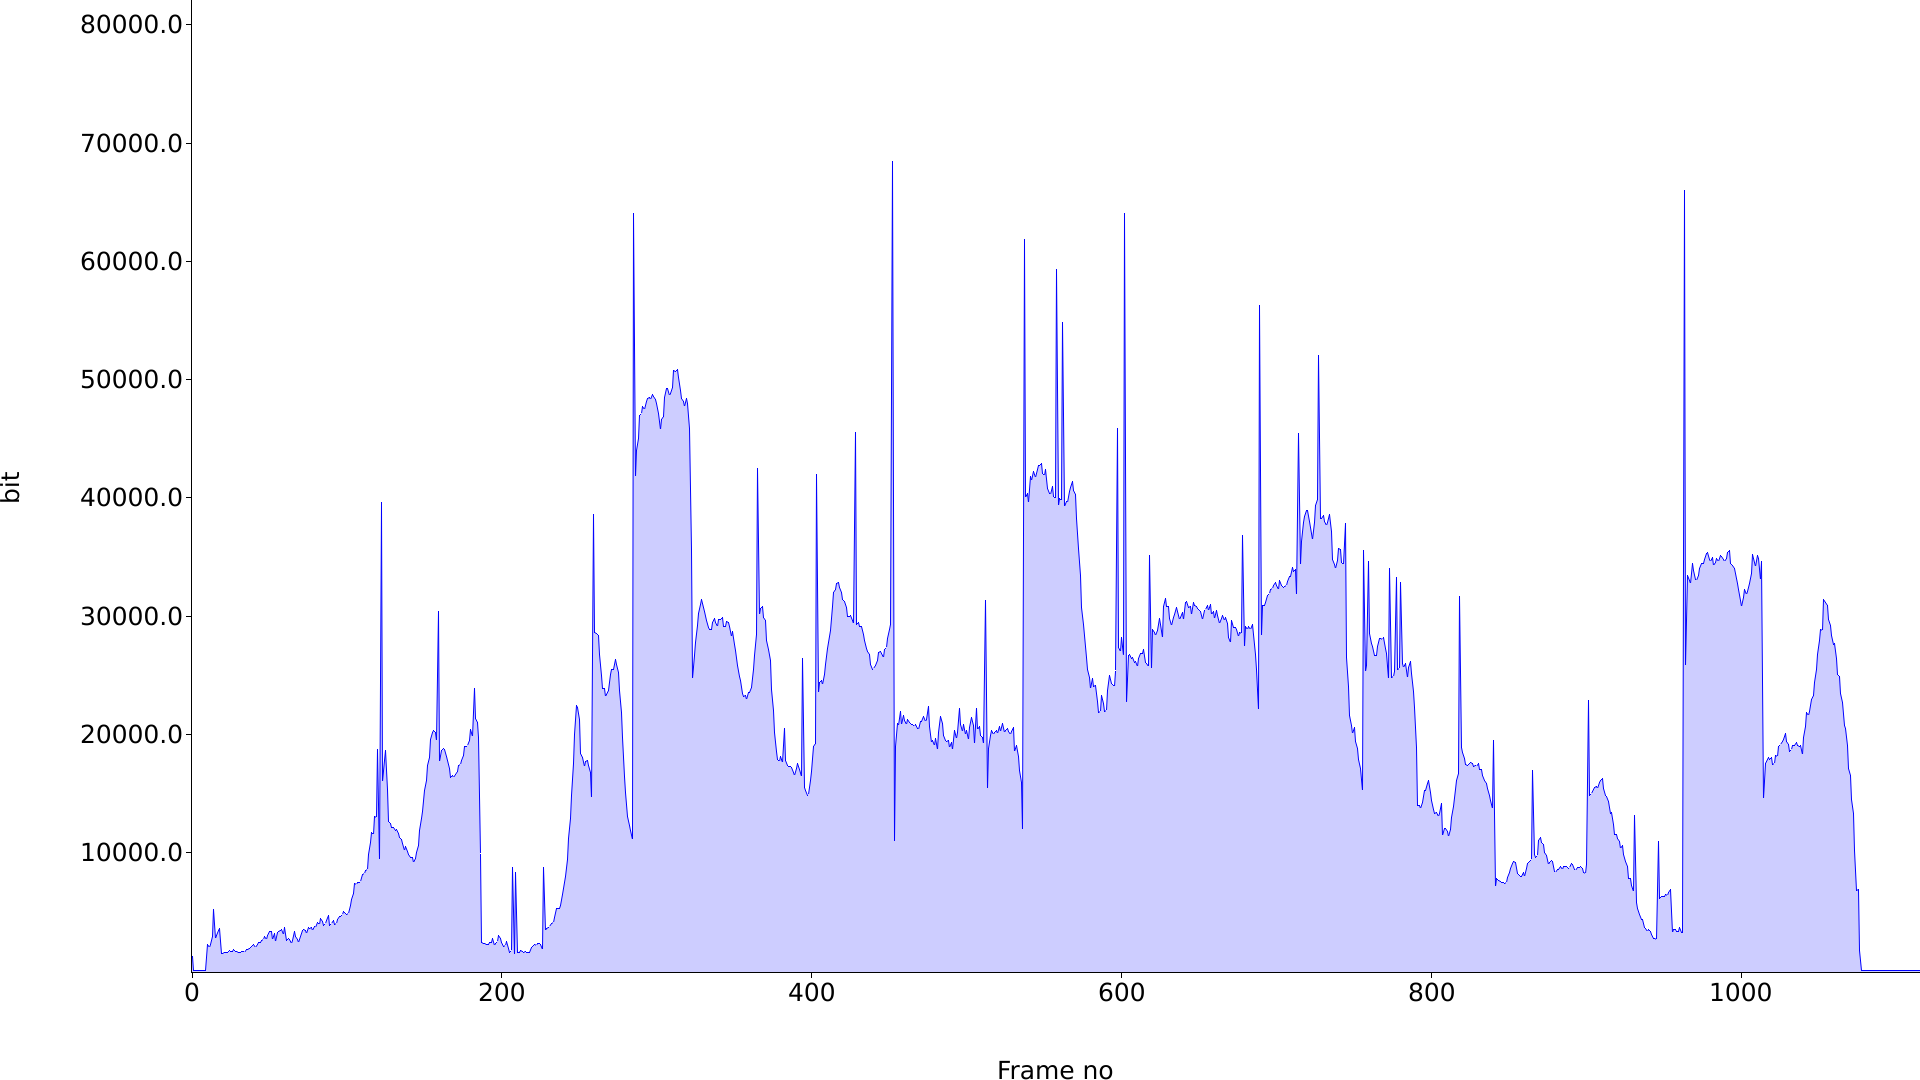
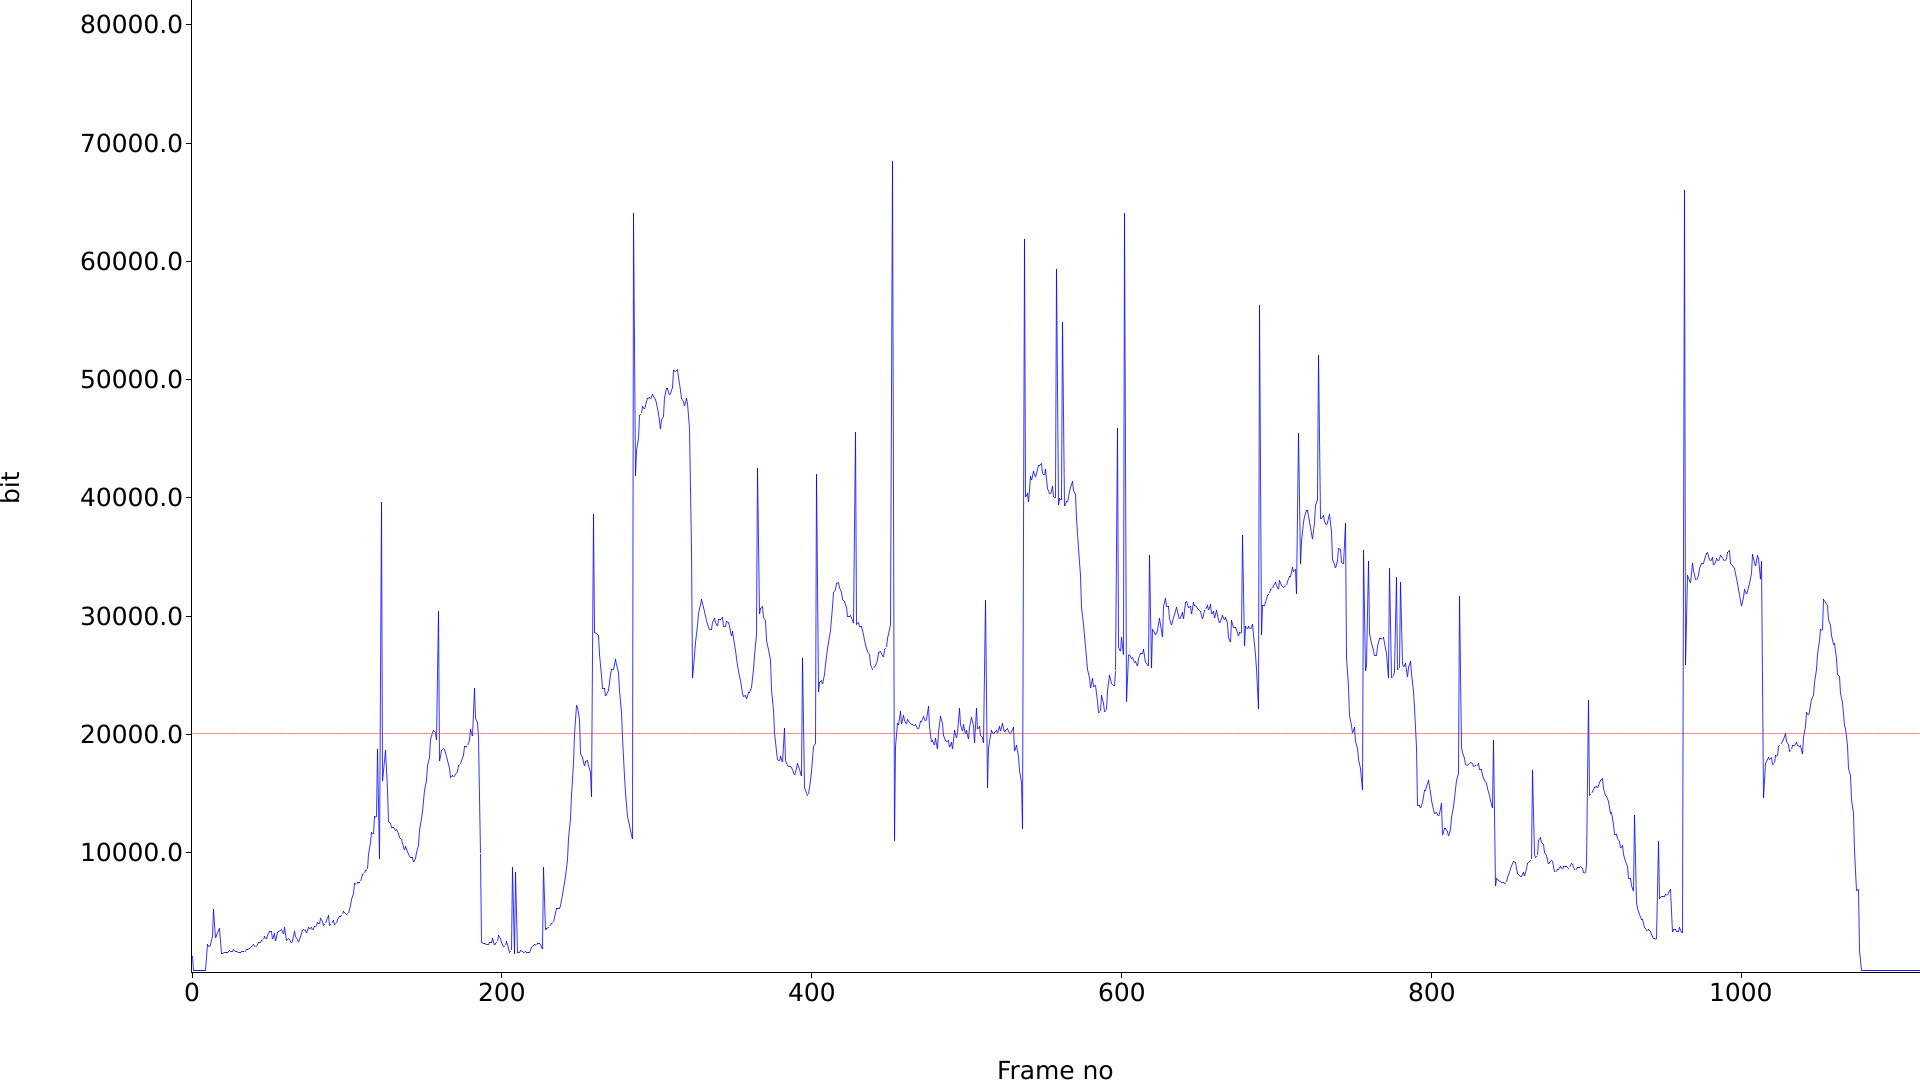
Draw average bitrate with red line

Changed region(s): [[0.0938, 0.3361, 0.9688, 0.9167]]

diff --git a/src/main.rs b/src/main.rs
@@ -45,6 +45,8 @@ fn draw_graph<P: AsRef<std::path::Path>>(
   root.fill(&WHITE)?;
 
   let max = *datas.iter().max().unwrap() as f64;
+  let avg = datas.iter().sum::<i32>() / datas.len() as i32;
+
   let mut chart = ChartBuilder::on(&root)
     .set_label_area_size(LabelAreaPosition::Left, (10).percent_width())
     .set_label_area_size(LabelAreaPosition::Bottom, (10).percent_height())
@@ -58,14 +60,16 @@ fn draw_graph<P: AsRef<std::path::Path>>(
     .label_style(("san-serif", (3).percent_height()))
     .draw()?;
 
-  chart.draw_series(
-    AreaSeries::new(
-      (0..).zip(datas.iter()).map(|(x, y)| (x, *y as f64)),
-      0.0,
-      &BLUE.mix(0.2),
-    )
-    .border_style(&BLUE),
-  )?;
+  chart.draw_series(LineSeries::new(
+    (0..).zip(datas.iter()).map(|(x, y)| (x, *y as f64)),
+    &BLUE.mix(0.8),
+  ))?;
+
+  // Draw average bitrate
+  chart.draw_series(LineSeries::new(
+    (0..datas.len()).map(|x| (x, avg as f64)),
+    &RED.mix(0.3),
+  ))?;
 
   Ok(())
 }
